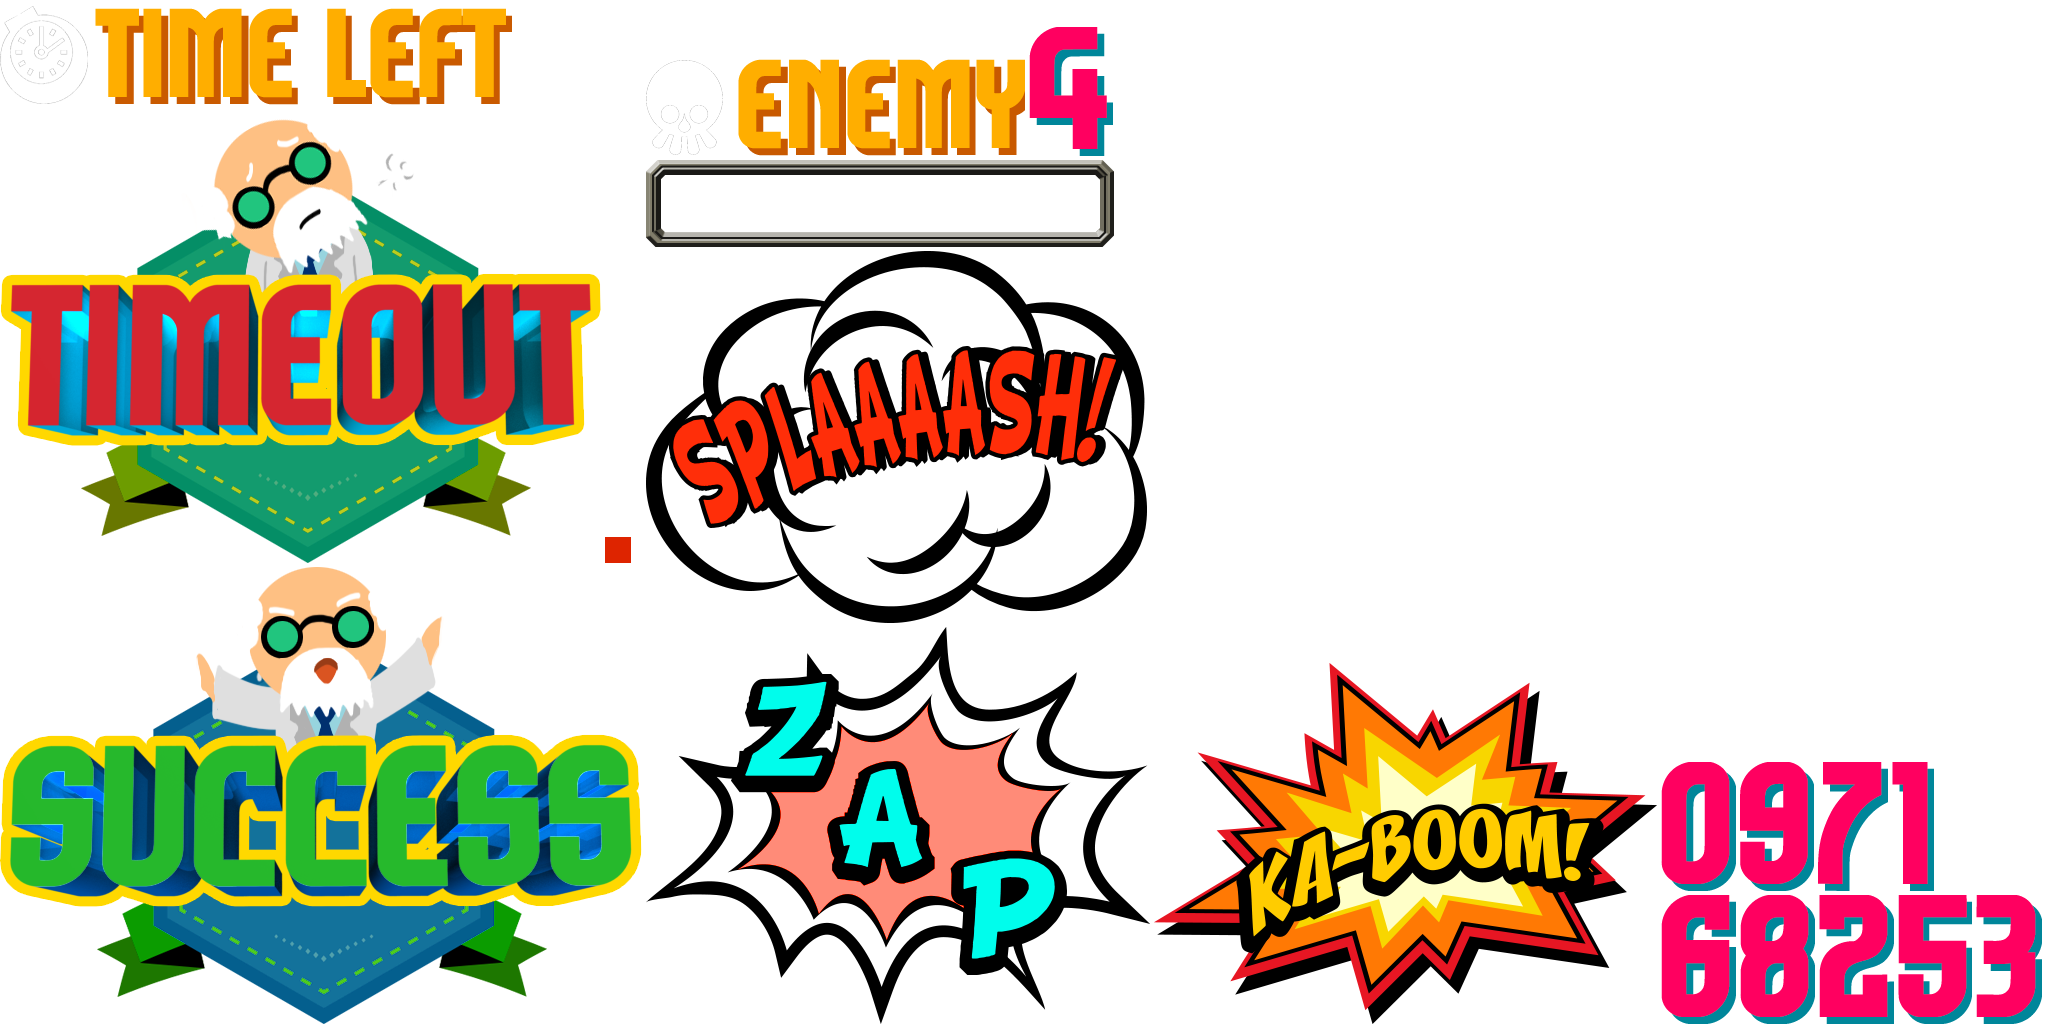
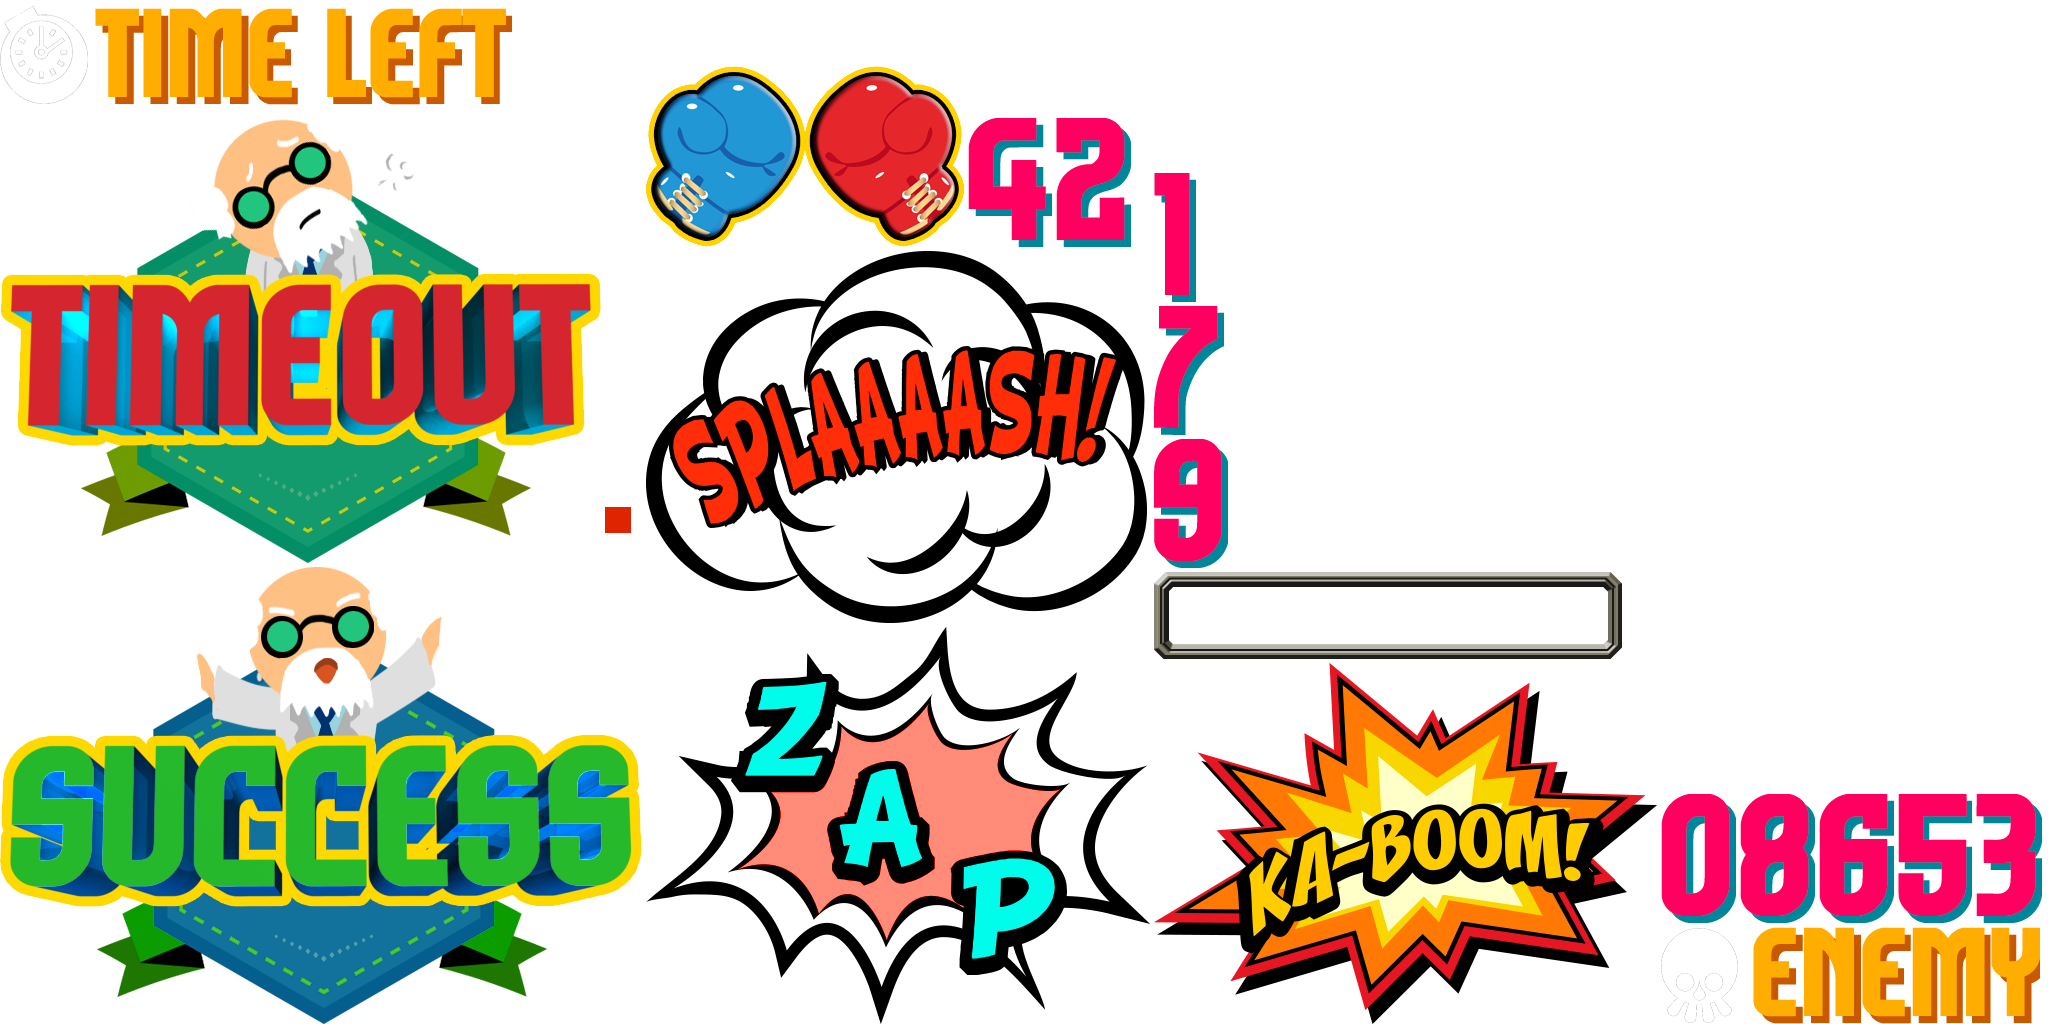
밸런스 조절 및 추가작업 완료.

Changed region(s): [[0.3125, 0.0312, 0.8125, 0.6562], [0.8125, 0.7188, 1.0, 1.0], [0.2812, 0.5, 0.3125, 0.5625]]

diff --git a/src/Assets/UnityRobotDemo/Scripts/Game_Boxing.cs b/src/Assets/UnityRobotDemo/Scripts/Game_Boxing.cs
@@ -70,6 +70,8 @@ public class Game_Boxing : MonoBehaviour
 	public	GameObject		_texStep1;
 	public	GameObject		_texStep2;
 
+	public	UISprite		_sprFightUI;
+
 
 
 
@@ -103,7 +105,7 @@ public class Game_Boxing : MonoBehaviour
 	void Start () 
 	{
 		_input_Correction.Set_BufferCount(4);
-		_input_Correction.SetDistance(7f);
+		_input_Correction.SetDistance(0f);
 		PlayAni(EAttack.IDLE);
 	}
 
@@ -127,6 +129,8 @@ public class Game_Boxing : MonoBehaviour
 			_sndGong2.audio.Stop();
 			_sndHahaha.audio.Stop();
 			_sndKO.audio.Stop();
+			CancelInvoke("ShowStartGuide");
+			HideStartGuide();
 		}
 		else if ( (_input_Correction._nUse_D[0] == 1) && (_nStep == 1) )
 		{
@@ -172,7 +176,7 @@ public class Game_Boxing : MonoBehaviour
 		if (!_bIsEnableAttack)
 			return;
 
-		if (_fSpeedL < -30f)
+		if (_fSpeedL > 30f)
 		{
 			_bIsEnableAttack = false;
 			PlayAni(EAttack.L_POWER);
@@ -181,9 +185,10 @@ public class Game_Boxing : MonoBehaviour
 			_fDamageDistance = -7f;
 			_fEnemyHP = _fEnemyHP - 0.1f;
 			_sndPunch2.audio.Play();
+			_sprFightUI.enabled = false;
 			//Debug.Log("LL");
 		}
-		else if (_fSpeedL < -20f)
+		else if (_fSpeedL > 20f)
 		{
 			_bIsEnableAttack = false;
 			PlayAni(EAttack.L_ZAP);
@@ -192,9 +197,10 @@ public class Game_Boxing : MonoBehaviour
 			_fDamageDistance = -7f;
 			_fEnemyHP = _fEnemyHP - 0.03f;
 			_sndPunch1.audio.Play();
+			_sprFightUI.enabled = false;
 			//Debug.Log("L");
 		}
-		else if (_fSpeedM < -20f)
+		else if (_fSpeedM > 20f)
 		{
 			_bIsEnableAttack = false;
 			PlayAni(EAttack.FRONT);
@@ -203,9 +209,10 @@ public class Game_Boxing : MonoBehaviour
 			_fDamageDistance = -7f;
 			_fEnemyHP = _fEnemyHP - 0.03f;
 			_sndPunch1.audio.Play();
+			_sprFightUI.enabled = false;
 			//Debug.Log("M");
 		}
-		else if (_fSpeedR < -30f)
+		else if (_fSpeedR > 30f)
 		{
 			_bIsEnableAttack = false;
 			PlayAni(EAttack.R_POWER);
@@ -214,9 +221,10 @@ public class Game_Boxing : MonoBehaviour
 			_fDamageDistance = -7f;
 			_fEnemyHP = _fEnemyHP - 0.1f;
 			_sndPunch2.audio.Play();
+			_sprFightUI.enabled = false;
 			//Debug.Log("RR");
 		}
-		else if (_fSpeedR < -20f)
+		else if (_fSpeedR > 20f)
 		{
 			_bIsEnableAttack = false;
 			PlayAni(EAttack.R_ZAP);
@@ -225,6 +233,7 @@ public class Game_Boxing : MonoBehaviour
 			_fDamageDistance = -7f;
 			_fEnemyHP = _fEnemyHP - 0.03f;
 			_sndPunch1.audio.Play();
+			_sprFightUI.enabled = false;
 			//Debug.Log("R");
 		}
 
@@ -289,6 +298,7 @@ public class Game_Boxing : MonoBehaviour
 		if (!_aniBoxer.isPlaying)
 		{
 			_bIsEnableAttack = true;
+			_sprFightUI.enabled = true;
 			_aniBoxer.CrossFade("Idle", 1f);
 		}
 	}
@@ -321,7 +331,7 @@ public class Game_Boxing : MonoBehaviour
 	// 시간 제어---------------------------------------------
 	void Update_Time()
 	{
-		if (_fTime <= 0f)
+		if ( (_fTime <= 0f) && (_bGamePlay) )
 		{
 			_bGamePlay = false;
 			_scrTimeOut.StartMove();
@@ -378,6 +388,8 @@ public class Game_Boxing : MonoBehaviour
 		_bGamePlay = true;
 
 		_bIsEnableAttack = true;
+
+		_sprFightUI.enabled = true;
 		_fEnemyHP = 1f;
 		_UISprGaugeBar.fillAmount = _fEnemyHP;
 

diff --git a/src/Assets/UnityRobotDemo/Scripts/Game_PinBall.cs b/src/Assets/UnityRobotDemo/Scripts/Game_PinBall.cs
@@ -98,6 +98,8 @@ public class Game_PinBall : MonoBehaviour
 			_sndDoor.audio.Stop();
 			_sndBGMPinBall.audio.Stop();
 			_goBall.transform.localPosition = new Vector3(0f, -20f, 0f);
+			CancelInvoke("ShowStartGuide");
+			HideStartGuide();
 		}
 		else if ( (_input_Correction._nUse_D[0] == 1) && (_nStep == 1) )
 		{
@@ -150,7 +152,7 @@ public class Game_PinBall : MonoBehaviour
 	// 시간 제어---------------------------------------------
 	void Update_Time()
 	{
-		if (_fTime <= 0f)
+		if ((_fTime <= 0f) && (_bGamePlay) )
 		{
 			_bGamePlay = false;
 			_goBall.transform.localPosition = new Vector3(0f, -20f, 0f);

diff --git a/src/Assets/UnityRobotDemo/Scripts/Game_Color.cs b/src/Assets/UnityRobotDemo/Scripts/Game_Color.cs
@@ -159,6 +159,8 @@ public class Game_Color : MonoBehaviour
 			_goHitEffect.SetActive(false);
 			_goBeam.SetActive(false);
 			PlayAni(EMonster.NO_HIT);
+			CancelInvoke("ShowStartGuide");
+			HideStartGuide();
 		}
 		else if ( (_input_Correction._nUse_D[0] == 1) && (_nStep == 1) )
 		{
@@ -401,7 +403,7 @@ public class Game_Color : MonoBehaviour
 	// 시간 제어---------------------------------------------
 	void Update_Time()
 	{
-		if (_fTime <= 0f)
+		if ( (_fTime < 0f) && (_bGamePlay) )
 		{
 			_bGamePlay = false;
 			_goBeam.SetActive(false);

diff --git a/src/Assets/UnityRobotDemo/Scripts/Game_Space.cs b/src/Assets/UnityRobotDemo/Scripts/Game_Space.cs
@@ -92,6 +92,8 @@ public class Game_Space : MonoBehaviour
 			_sndCrash.audio.Stop();
 			_sndGetEnergy.audio.Stop();
 			CancelInvoke("Add_Score");
+			CancelInvoke("ShowStartGuide");
+			HideStartGuide();
 		}
 		else if ( (_input_Correction._nUse_D[0] == 1) && (_nStep == 1) )
 		{
@@ -141,7 +143,7 @@ public class Game_Space : MonoBehaviour
 		_fFuel = _fFuel - Time.deltaTime * 0.05f;
 		_UISprFuel.fillAmount = _fFuel;
 
-		if (_fFuel <= 0f)
+		if ( (_fFuel <= 0f) && (_bGamePlay) )
 		{
 			_goSpeed.SetActive(false);
 			_scrGameOver.StartMove();

diff --git a/src/Assets/UnityRobotDemo/Scripts/AutoFlicker.cs b/src/Assets/UnityRobotDemo/Scripts/AutoFlicker.cs
@@ -1,0 +1,22 @@
+using UnityEngine;
+using System.Collections;
+
+public class AutoFlicker : MonoBehaviour 
+{
+	public UISprite		_UISprite;
+
+	// Use this for initialization
+	void Start () 
+	{
+	
+	}
+	
+	// Update is called once per frame
+	void Update () 
+	{
+		_UISprite.alpha = _UISprite.alpha - Time.deltaTime * 10;
+
+		if (_UISprite.alpha < 0f)
+			_UISprite.alpha = 1.5f;
+	}
+}
